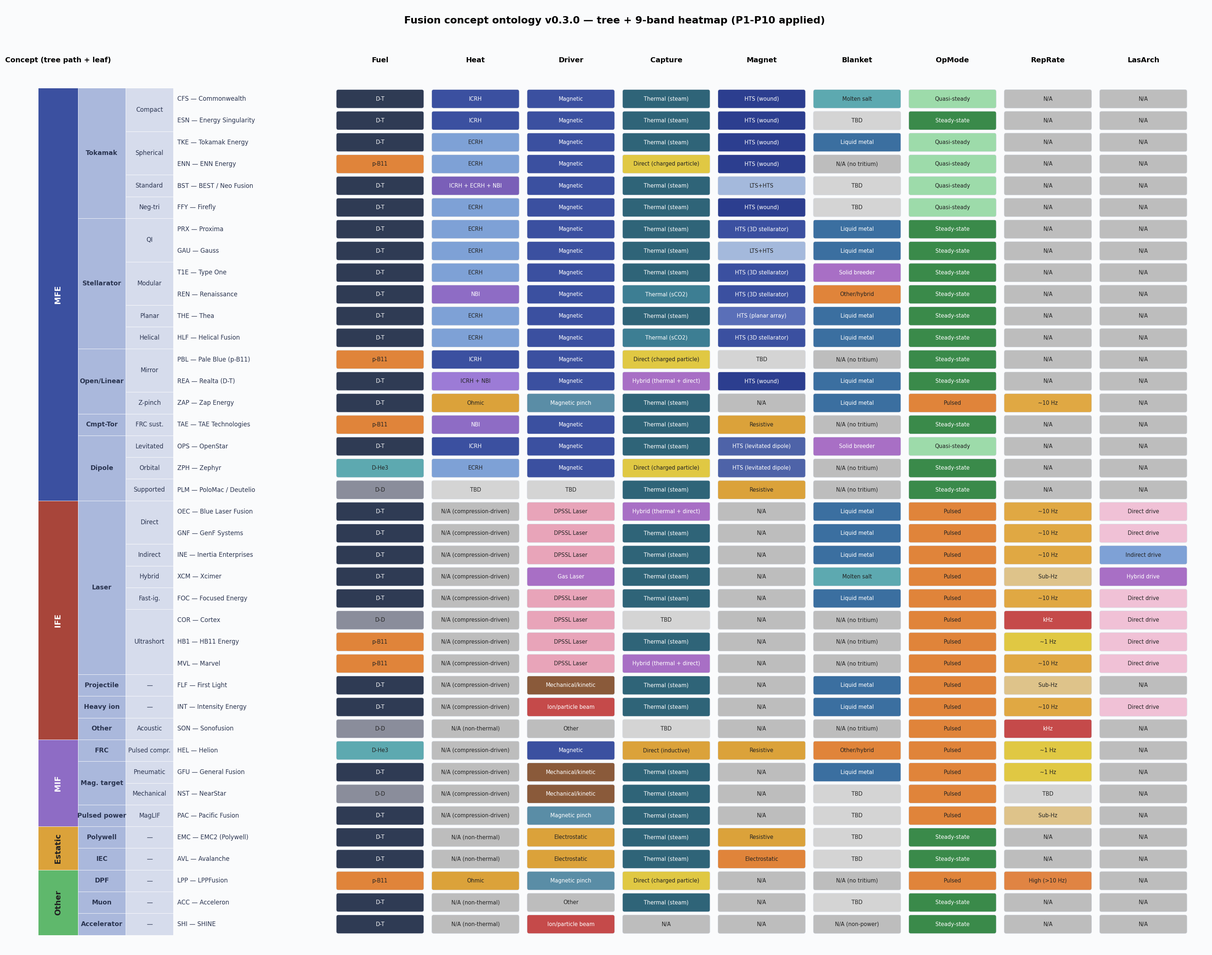
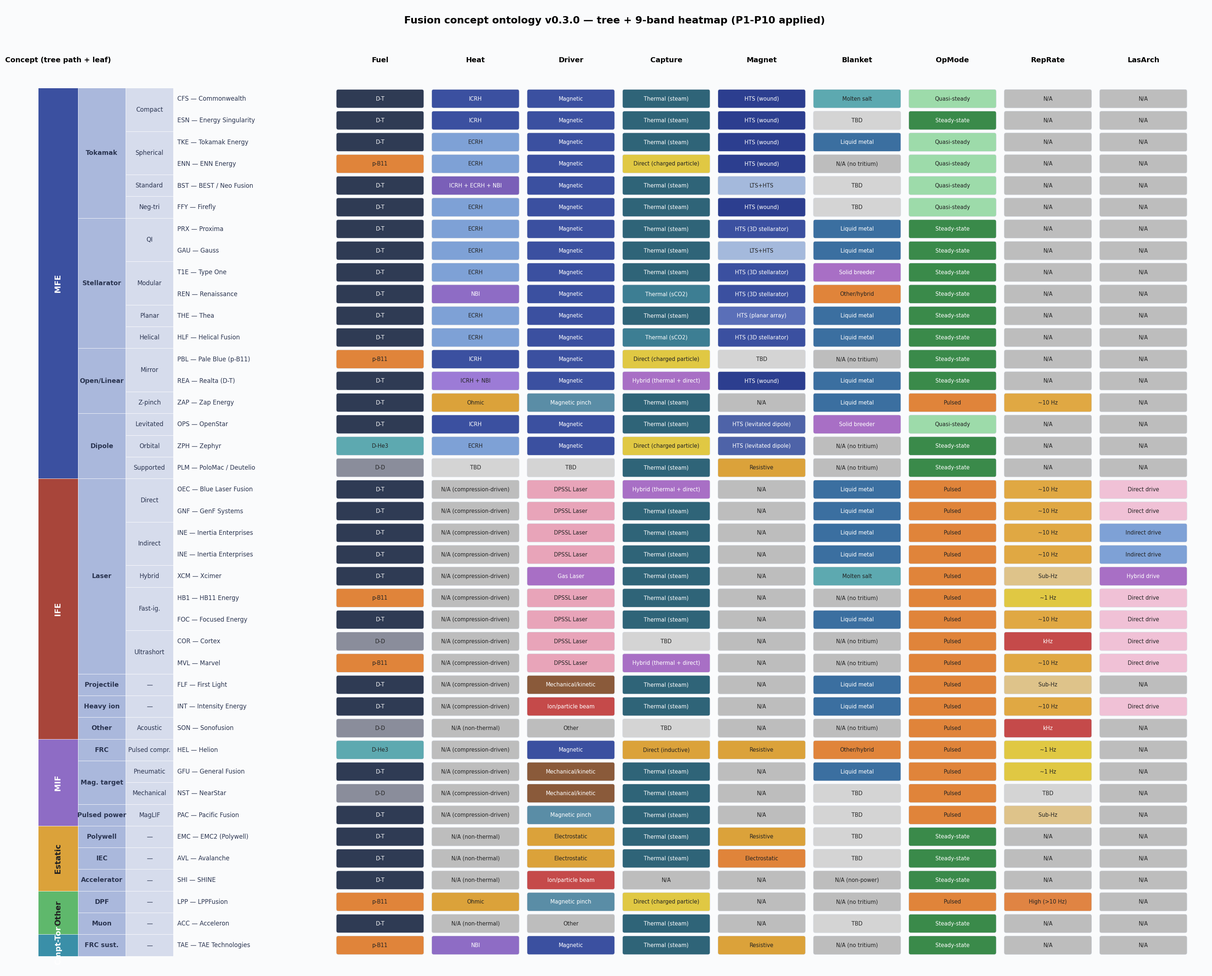
refactor(analysis): architecture-driven CADENCE + TREE_PATH (FR-8, FR-9, FR-14)
Replace oneoff_3d_clustering.py::CADENCE_BY_PREFIX (numeric-ID-prefix keys,
broken by renumbering) with cadence_by_architecture(cid, row) that reads
Confinement Family / MFE Topology / IFE Driver / MIF Method /
Non-Standard Mechanism / Tokamak Shape plus a small slug-override dict for
Z-pinch and orbital LD. Mirrors lib/scoring.py:detect_c2_category.

Audit FUNDING_M_USD (slug-keyed, stable across renumbering): add entries
for 37/38/39, comment the deferred Pranos drop.

Replace generate_ontology_chart.py::TREE_PATH dict with derive_tree_path(r)
using the same architecture-column pattern; add Cmpt-Tor color to
FAMILY_COLORS and harden text_color() against 3-digit hex / short strings
so the chart no longer crashes on previously-uncolored families.

I-7 regression check: feature values for the 36 retained concepts in
oneoff_3d_clustering.csv are byte-identical to /tmp/i7_baseline; only
KMeans cluster labels shift because three new concepts (37/38/39) join
the dataset.

diff --git a/exploration/concept_analysis/oneoff_3d_clustering.html b/exploration/concept_analysis/oneoff_3d_clustering.html
@@ -2,6 +2,6 @@
 <head><meta charset="utf-8" /></head>
 <body>
     <div>                        <script>window.PlotlyConfig = {MathJaxConfig: 'local'};</script>
-        <script charset="utf-8" src="https://cdn.plot.ly/plotly-3.5.0.min.js" integrity="sha256-fHbNLP+GlIXN+efbQec78UkemUz3NJp7UmfGxC1tNxs=" crossorigin="anonymous"></script>                <div id="0667480a-5ee3-42bb-b464-aff2d22b5fca" class="plotly-graph-div" style="height:750px; width:100%;"></div>            <script>                window.PLOTLYENV=window.PLOTLYENV || {};                                if (document.getElementById("0667480a-5ee3-42bb-b464-aff2d22b5fca")) {                    Plotly.newPlot(                        "0667480a-5ee3-42bb-b464-aff2d22b5fca",                        [{"hoverinfo":"skip","line":{"color":"rgba(120,120,120,0.35)","width":1},"mode":"lines","name":"drop-lines","showlegend":false,"x":[2.739,2.739,null,3.162,3.162,null,2.837,2.837,null,2.958,2.958,null,2.236,2.236,null,3.13,3.13,null,3.162,3.162,null,3.633,3.633,null,3.162,3.162,null,3.742,3.742,null,3.13,3.13,null,3.899,3.899,null,2.775,2.775,null,3.742,3.742,null,3.5,3.5,null,3.162,3.162,null,2.837,2.837,null,1.936,1.936,null,3.633,3.633,null,2.837,2.837,null,3.033,3.033,null,2.828,2.828,null,2.449,2.449,null,3.162,3.162,null,3.347,3.347,null,1.414,1.414,null,2.627,2.627,null,2.646,2.646,null,1.342,1.342,null,2.683,2.683,null,1.857,1.857,null,1.732,1.732,null,1.975,1.975,null,1.14,1.14,null,1.342,1.342,null,1.414,1.414,null],"y":[4.42,4.42,null,4.362,4.362,null,4.351,4.351,null,4.321,4.321,null,4.318,4.318,null,4.292,4.292,null,4.216,4.216,null,4.176,4.176,null,4.16,4.16,null,4.128,4.128,null,4.094,4.094,null,4.076,4.076,null,4.054,4.054,null,3.968,3.968,null,3.954,3.954,null,3.93,3.93,null,3.851,3.851,null,3.808,3.808,null,3.808,3.808,null,3.751,3.751,null,3.653,3.653,null,3.63,3.63,null,3.445,3.445,null,3.434,3.434,null,3.397,3.397,null,3.213,3.213,null,3.14,3.14,null,2.735,2.735,null,1.977,1.977,null,1.922,1.922,null,1.287,1.287,null,1.0,1.0,null,1.0,1.0,null,1.0,1.0,null,1.0,1.0,null,1.0,1.0,null],"z":[2.599,1,null,2.47,1,null,2.419,1,null,2.649,1,null,2.435,1,null,2.746,1,null,2.834,1,null,2.528,1,null,2.387,1,null,2.495,1,null,2.882,1,null,2.537,1,null,2.81,1,null,2.652,1,null,2.796,1,null,2.445,1,null,2.649,1,null,3.779,1,null,2.577,1,null,2.705,1,null,2.617,1,null,2.596,1,null,2.517,1,null,2.828,1,null,2.713,1,null,3.727,1,null,3.484,1,null,4.06,1,null,2.894,1,null,2.868,1,null,2.744,1,null,3.29,1,null,3.101,1,null,3.593,1,null,4.146,1,null,2.882,1,null],"type":"scatter3d"},{"hoverinfo":"skip","marker":{"color":"rgba(120,120,120,0.45)","size":4,"symbol":"circle"},"mode":"markers","name":"floor-shadows","showlegend":false,"x":[2.739,3.162,2.837,2.958,2.236,3.13,3.162,3.633,3.162,3.742,3.13,3.899,2.775,3.742,3.5,3.162,2.837,1.936,3.633,2.837,3.033,2.828,2.449,3.162,3.347,1.414,2.627,2.646,1.342,2.683,1.857,1.732,1.975,1.14,1.342,1.414],"y":[4.42,4.362,4.351,4.321,4.318,4.292,4.216,4.176,4.16,4.128,4.094,4.076,4.054,3.968,3.954,3.93,3.851,3.808,3.808,3.751,3.653,3.63,3.445,3.434,3.397,3.213,3.14,2.735,1.977,1.922,1.287,1.0,1.0,1.0,1.0,1.0],"z":[1,1,1,1,1,1,1,1,1,1,1,1,1,1,1,1,1,1,1,1,1,1,1,1,1,1,1,1,1,1,1,1,1,1,1,1],"type":"scatter3d"},{"customdata":[["29-negative-triangularity-tokamak","Firefly Fusion","D-T","MFE",3.0,4.0,3.3],["20a-type-one-stellarator","Type One Energy","D-T","MFE",2.8,4.0,3.5],["09-qi-stellarator-hts","Proxima Fusion","D-T","MFE",2.5,4.0,3.8],["05-planar-coil-stellarator","Thea Energy","D-T","MFE",3.5,4.0,3.5],["12-levitated-dipole","OpenStar Technologies","D-T","MFE",3.0,3.5,3.5],["10-large-scale-stellarator","Gauss Fusion","D-T","MFE",3.3,4.0,3.3],["20b-renaissance-stellarator","Renaissance Fusion","D-T","MFE",3.8,4.0,2.5],["36-helical-coil-stellarator","Helical Fusion","D-T","MFE",2.4,4.0,2.8]],"hovertemplate":"\u003cb\u003e%{customdata[0]}\u003c\u002fb\u003e\u003cbr\u003e%{customdata[1]} \u2014 %{customdata[2]} \u2014 %{customdata[3]}\u003cbr\u003e\u003cbr\u003eTech Maturity: %{x:.2f}\u003cbr\u003eTime to Market: %{y:.2f}\u003cbr\u003eLow-Cost Potential: %{z:.2f}\u003cbr\u003e\u003cbr\u003eC1=%{customdata[4]:.1f}  C7=%{customdata[5]:.1f}  C8=%{customdata[6]:.1f}\u003cextra\u003e\u003c\u002fextra\u003e","marker":{"color":"#1f77b4","line":{"color":"#222","width":0.5},"opacity":0.9,"size":7},"mode":"markers+text","name":"Cluster 0","text":["29","20a","09","05","12","10","20b","36"],"textfont":{"size":9},"textposition":"top center","x":[3.633,3.742,3.899,3.742,3.5,3.633,3.162,3.347],"y":[4.176,4.128,4.076,3.968,3.954,3.808,3.434,3.397],"z":[2.528,2.495,2.537,2.652,2.796,2.577,2.828,2.713],"type":"scatter3d"},{"customdata":[["03-laser-icf-liquid-jet-target","Cortex Fusion Systems","D-D","IFE",2.8,1.0,1.8],["16-muon-catalyzed-fusion","Acceleron Fusion","D-T","Non-Standard",2.8,4.0,1.8],["27-polywell","EMC2","D-T","Non-Standard",3.7,1.5,2.3],["02-acoustic-icf-sonofusion","Sonofusion Energy","D-D","IFE",3.6,1.5,2.0],["06-magnetic-mirror","Pale Blue Fusion","p-B11","MFE",1.3,3.0,1.3],["19-orbital-levitated-dipole","Zephyr Fusion","D-He3","MFE",3.0,1.0,1.3],["24-dense-plasma-focus","LPPFusion","p-B11","Non-Standard",5.0,1.0,1.8],["35-polomac-magnetic-confinement","Deutelio","D-D","MFE",2.0,1.0,2.0]],"hovertemplate":"\u003cb\u003e%{customdata[0]}\u003c\u002fb\u003e\u003cbr\u003e%{customdata[1]} \u2014 %{customdata[2]} \u2014 %{customdata[3]}\u003cbr\u003e\u003cbr\u003eTech Maturity: %{x:.2f}\u003cbr\u003eTime to Market: %{y:.2f}\u003cbr\u003eLow-Cost Potential: %{z:.2f}\u003cbr\u003e\u003cbr\u003eC1=%{customdata[4]:.1f}  C7=%{customdata[5]:.1f}  C8=%{customdata[6]:.1f}\u003cextra\u003e\u003c\u002fextra\u003e","marker":{"color":"#ff7f0e","line":{"color":"#222","width":0.5},"opacity":0.9,"size":7},"mode":"markers+text","name":"Cluster 1","text":["03","16","27","02","06","19","24","35"],"textfont":{"size":9},"textposition":"top center","x":[1.342,2.683,1.857,1.732,1.975,1.14,1.342,1.414],"y":[1.977,1.922,1.287,1.0,1.0,1.0,1.0,1.0],"z":[2.894,2.868,2.744,3.29,3.101,3.593,4.146,2.882],"type":"scatter3d"},{"customdata":[["15-sheared-flow-stabilized-z-pinch","Zap Energy","D-T","MFE",4.1,3.0,2.5],["01-hts-compact-tokamak","Commonwealth Fusion Systems","D-T","MFE",3.2,4.0,2.5],["22-projectile-icf","First Light Fusion, NearStar Fusion","D-T","IFE",2.4,3.5,2.3],["07-maglif","Pacific Fusion, Fuse Energy Technologies","D-T","MIF",3.7,3.5,2.5],["14-magnetized-target-fusion-pneumatic-compression","General Fusion","D-T","MIF",2.8,2.0,2.5],["17a-laser-icf-hybrid-drive","Xcimer Energy","D-T","IFE",4.1,3.5,2.8],["26-laser-icf-indirect-drive","Inertia Enterprises","D-T","IFE",3.2,4.0,2.5],["21-spherical-tokamak-hts","Tokamak Energy","D-T","MFE",2.0,4.0,2.5],["31-laser-icf-oec-architecture","Blue Laser Fusion (BLF)","D-T","IFE",4.5,3.5,2.8],["30-laser-icf-nif-commercialization","Inertia Enterprises","D-T","IFE",4.6,3.5,2.2],["33-state-backed-tokamak-best","Neo Fusion","D-T","MFE",2.1,4.0,2.5],["17b-laser-icf-fast-ignition","Focused Energy","D-T","IFE",3.7,3.5,2.3],["32-laser-icf-french-national","GenF Systems","D-T","IFE",3.8,3.5,2.3],["34-compact-spherical-tokamak-india","Pranos Fusion","D-T","MFE",3.3,4.0,2.3],["28-hts-tokamak-full-hts","Energy Singularity","D-T","MFE",2.8,4.0,2.0],["25-heavy-ion-beam-icf","Intensity Energy","D-T","IFE",3.0,2.0,3.0]],"hovertemplate":"\u003cb\u003e%{customdata[0]}\u003c\u002fb\u003e\u003cbr\u003e%{customdata[1]} \u2014 %{customdata[2]} \u2014 %{customdata[3]}\u003cbr\u003e\u003cbr\u003eTech Maturity: %{x:.2f}\u003cbr\u003eTime to Market: %{y:.2f}\u003cbr\u003eLow-Cost Potential: %{z:.2f}\u003cbr\u003e\u003cbr\u003eC1=%{customdata[4]:.1f}  C7=%{customdata[5]:.1f}  C8=%{customdata[6]:.1f}\u003cextra\u003e\u003c\u002fextra\u003e","marker":{"color":"#2ca02c","line":{"color":"#222","width":0.5},"opacity":0.9,"size":7},"mode":"markers+text","name":"Cluster 2","text":["15","01","22","07","14","17a","26","21","31","30","33","17b","32","34","28","25"],"textfont":{"size":9},"textposition":"top center","x":[2.739,3.162,2.837,2.958,2.236,3.13,3.162,3.162,3.13,2.775,3.162,2.837,2.837,3.033,2.828,2.449],"y":[4.42,4.362,4.351,4.321,4.318,4.292,4.216,4.16,4.094,4.054,3.93,3.851,3.751,3.653,3.63,3.445],"z":[2.599,2.47,2.419,2.649,2.435,2.746,2.834,2.387,2.882,2.81,2.445,2.649,2.705,2.617,2.596,2.517],"type":"scatter3d"},{"customdata":[["08-frc-w-direct-conversion","Helion Energy","D-He3","MIF",5.0,1.5,2.5],["18-p-b11-frc","TAE Technologies","p-B11","MFE",3.0,1.0,2.0],["13-electrostatic-hybrid","Avalanche Energy","D-T","Non-Standard",5.0,3.0,2.3],["23-laser-icf-nanostructured-target","Marvel Fusion","p-B11","IFE",5.0,3.5,2.0]],"hovertemplate":"\u003cb\u003e%{customdata[0]}\u003c\u002fb\u003e\u003cbr\u003e%{customdata[1]} \u2014 %{customdata[2]} \u2014 %{customdata[3]}\u003cbr\u003e\u003cbr\u003eTech Maturity: %{x:.2f}\u003cbr\u003eTime to Market: %{y:.2f}\u003cbr\u003eLow-Cost Potential: %{z:.2f}\u003cbr\u003e\u003cbr\u003eC1=%{customdata[4]:.1f}  C7=%{customdata[5]:.1f}  C8=%{customdata[6]:.1f}\u003cextra\u003e\u003c\u002fextra\u003e","marker":{"color":"#d62728","line":{"color":"#222","width":0.5},"opacity":0.9,"size":7},"mode":"markers+text","name":"Cluster 3","text":["08","18","13","23"],"textfont":{"size":9},"textposition":"top center","x":[1.936,1.414,2.627,2.646],"y":[3.808,3.213,3.14,2.735],"z":[3.779,3.727,3.484,4.06],"type":"scatter3d"}],                        {"template":{"data":{"histogram2dcontour":[{"type":"histogram2dcontour","colorbar":{"outlinewidth":0,"ticks":""},"colorscale":[[0.0,"#0d0887"],[0.1111111111111111,"#46039f"],[0.2222222222222222,"#7201a8"],[0.3333333333333333,"#9c179e"],[0.4444444444444444,"#bd3786"],[0.5555555555555556,"#d8576b"],[0.6666666666666666,"#ed7953"],[0.7777777777777778,"#fb9f3a"],[0.8888888888888888,"#fdca26"],[1.0,"#f0f921"]]}],"choropleth":[{"type":"choropleth","colorbar":{"outlinewidth":0,"ticks":""}}],"histogram2d":[{"type":"histogram2d","colorbar":{"outlinewidth":0,"ticks":""},"colorscale":[[0.0,"#0d0887"],[0.1111111111111111,"#46039f"],[0.2222222222222222,"#7201a8"],[0.3333333333333333,"#9c179e"],[0.4444444444444444,"#bd3786"],[0.5555555555555556,"#d8576b"],[0.6666666666666666,"#ed7953"],[0.7777777777777778,"#fb9f3a"],[0.8888888888888888,"#fdca26"],[1.0,"#f0f921"]]}],"heatmap":[{"type":"heatmap","colorbar":{"outlinewidth":0,"ticks":""},"colorscale":[[0.0,"#0d0887"],[0.1111111111111111,"#46039f"],[0.2222222222222222,"#7201a8"],[0.3333333333333333,"#9c179e"],[0.4444444444444444,"#bd3786"],[0.5555555555555556,"#d8576b"],[0.6666666666666666,"#ed7953"],[0.7777777777777778,"#fb9f3a"],[0.8888888888888888,"#fdca26"],[1.0,"#f0f921"]]}],"contourcarpet":[{"type":"contourcarpet","colorbar":{"outlinewidth":0,"ticks":""}}],"contour":[{"type":"contour","colorbar":{"outlinewidth":0,"ticks":""},"colorscale":[[0.0,"#0d0887"],[0.1111111111111111,"#46039f"],[0.2222222222222222,"#7201a8"],[0.3333333333333333,"#9c179e"],[0.4444444444444444,"#bd3786"],[0.5555555555555556,"#d8576b"],[0.6666666666666666,"#ed7953"],[0.7777777777777778,"#fb9f3a"],[0.8888888888888888,"#fdca26"],[1.0,"#f0f921"]]}],"surface":[{"type":"surface","colorbar":{"outlinewidth":0,"ticks":""},"colorscale":[[0.0,"#0d0887"],[0.1111111111111111,"#46039f"],[0.2222222222222222,"#7201a8"],[0.3333333333333333,"#9c179e"],[0.4444444444444444,"#bd3786"],[0.5555555555555556,"#d8576b"],[0.6666666666666666,"#ed7953"],[0.7777777777777778,"#fb9f3a"],[0.8888888888888888,"#fdca26"],[1.0,"#f0f921"]]}],"mesh3d":[{"type":"mesh3d","colorbar":{"outlinewidth":0,"ticks":""}}],"scatter":[{"fillpattern":{"fillmode":"overlay","size":10,"solidity":0.2},"type":"scatter"}],"parcoords":[{"type":"parcoords","line":{"colorbar":{"outlinewidth":0,"ticks":""}}}],"scatterpolargl":[{"type":"scatterpolargl","marker":{"colorbar":{"outlinewidth":0,"ticks":""}}}],"bar":[{"error_x":{"color":"#2a3f5f"},"error_y":{"color":"#2a3f5f"},"marker":{"line":{"color":"#E5ECF6","width":0.5},"pattern":{"fillmode":"overlay","size":10,"solidity":0.2}},"type":"bar"}],"scattergeo":[{"type":"scattergeo","marker":{"colorbar":{"outlinewidth":0,"ticks":""}}}],"scatterpolar":[{"type":"scatterpolar","marker":{"colorbar":{"outlinewidth":0,"ticks":""}}}],"histogram":[{"marker":{"pattern":{"fillmode":"overlay","size":10,"solidity":0.2}},"type":"histogram"}],"scattergl":[{"type":"scattergl","marker":{"colorbar":{"outlinewidth":0,"ticks":""}}}],"scatter3d":[{"type":"scatter3d","line":{"colorbar":{"outlinewidth":0,"ticks":""}},"marker":{"colorbar":{"outlinewidth":0,"ticks":""}}}],"scattermap":[{"type":"scattermap","marker":{"colorbar":{"outlinewidth":0,"ticks":""}}}],"scattermapbox":[{"type":"scattermapbox","marker":{"colorbar":{"outlinewidth":0,"ticks":""}}}],"scatterternary":[{"type":"scatterternary","marker":{"colorbar":{"outlinewidth":0,"ticks":""}}}],"scattercarpet":[{"type":"scattercarpet","marker":{"colorbar":{"outlinewidth":0,"ticks":""}}}],"carpet":[{"aaxis":{"endlinecolor":"#2a3f5f","gridcolor":"white","linecolor":"white","minorgridcolor":"white","startlinecolor":"#2a3f5f"},"baxis":{"endlinecolor":"#2a3f5f","gridcolor":"white","linecolor":"white","minorgridcolor":"white","startlinecolor":"#2a3f5f"},"type":"carpet"}],"table":[{"cells":{"fill":{"color":"#EBF0F8"},"line":{"color":"white"}},"header":{"fill":{"color":"#C8D4E3"},"line":{"color":"white"}},"type":"table"}],"barpolar":[{"marker":{"line":{"color":"#E5ECF6","width":0.5},"pattern":{"fillmode":"overlay","size":10,"solidity":0.2}},"type":"barpolar"}],"pie":[{"automargin":true,"type":"pie"}]},"layout":{"autotypenumbers":"strict","colorway":["#636efa","#EF553B","#00cc96","#ab63fa","#FFA15A","#19d3f3","#FF6692","#B6E880","#FF97FF","#FECB52"],"font":{"color":"#2a3f5f"},"hovermode":"closest","hoverlabel":{"align":"left"},"paper_bgcolor":"white","plot_bgcolor":"#E5ECF6","polar":{"bgcolor":"#E5ECF6","angularaxis":{"gridcolor":"white","linecolor":"white","ticks":""},"radialaxis":{"gridcolor":"white","linecolor":"white","ticks":""}},"ternary":{"bgcolor":"#E5ECF6","aaxis":{"gridcolor":"white","linecolor":"white","ticks":""},"baxis":{"gridcolor":"white","linecolor":"white","ticks":""},"caxis":{"gridcolor":"white","linecolor":"white","ticks":""}},"coloraxis":{"colorbar":{"outlinewidth":0,"ticks":""}},"colorscale":{"sequential":[[0.0,"#0d0887"],[0.1111111111111111,"#46039f"],[0.2222222222222222,"#7201a8"],[0.3333333333333333,"#9c179e"],[0.4444444444444444,"#bd3786"],[0.5555555555555556,"#d8576b"],[0.6666666666666666,"#ed7953"],[0.7777777777777778,"#fb9f3a"],[0.8888888888888888,"#fdca26"],[1.0,"#f0f921"]],"sequentialminus":[[0.0,"#0d0887"],[0.1111111111111111,"#46039f"],[0.2222222222222222,"#7201a8"],[0.3333333333333333,"#9c179e"],[0.4444444444444444,"#bd3786"],[0.5555555555555556,"#d8576b"],[0.6666666666666666,"#ed7953"],[0.7777777777777778,"#fb9f3a"],[0.8888888888888888,"#fdca26"],[1.0,"#f0f921"]],"diverging":[[0,"#8e0152"],[0.1,"#c51b7d"],[0.2,"#de77ae"],[0.3,"#f1b6da"],[0.4,"#fde0ef"],[0.5,"#f7f7f7"],[0.6,"#e6f5d0"],[0.7,"#b8e186"],[0.8,"#7fbc41"],[0.9,"#4d9221"],[1,"#276419"]]},"xaxis":{"gridcolor":"white","linecolor":"white","ticks":"","title":{"standoff":15},"zerolinecolor":"white","automargin":true,"zerolinewidth":2},"yaxis":{"gridcolor":"white","linecolor":"white","ticks":"","title":{"standoff":15},"zerolinecolor":"white","automargin":true,"zerolinewidth":2},"scene":{"xaxis":{"backgroundcolor":"#E5ECF6","gridcolor":"white","linecolor":"white","showbackground":true,"ticks":"","zerolinecolor":"white","gridwidth":2},"yaxis":{"backgroundcolor":"#E5ECF6","gridcolor":"white","linecolor":"white","showbackground":true,"ticks":"","zerolinecolor":"white","gridwidth":2},"zaxis":{"backgroundcolor":"#E5ECF6","gridcolor":"white","linecolor":"white","showbackground":true,"ticks":"","zerolinecolor":"white","gridwidth":2}},"shapedefaults":{"line":{"color":"#2a3f5f"}},"annotationdefaults":{"arrowcolor":"#2a3f5f","arrowhead":0,"arrowwidth":1},"geo":{"bgcolor":"white","landcolor":"#E5ECF6","subunitcolor":"white","showland":true,"showlakes":true,"lakecolor":"white"},"title":{"x":0.05},"mapbox":{"style":"light"}}},"scene":{"xaxis":{"title":{"text":"Tech Maturity (5 = most mature)"},"range":[1,5],"dtick":1},"yaxis":{"title":{"text":"Time to Market (5 = soonest)"},"range":[1,5],"dtick":1},"zaxis":{"title":{"text":"Low-Cost Potential (5 = lowest cost)"},"range":[1,5],"dtick":1},"camera":{"eye":{"x":1.6,"y":1.6,"z":1.0}}},"legend":{"x":0.85,"y":0.95},"margin":{"l":0,"r":0,"t":60,"b":80},"title":{"text":"Fusion Concepts \u2014 3D Clustering"},"annotations":[{"font":{"color":"#555","size":12},"showarrow":false,"text":"All axes on 1-5 scale (5 = best, 1 = worst). Drag to rotate. Gray drop-lines & floor shadows show the (Tech Maturity, Time to Market) projection.","x":0.5,"xanchor":"center","xref":"paper","y":-0.06,"yanchor":"top","yref":"paper"}],"height":750},                        {"responsive": true}                    )                };            </script>        </div>
+        <script charset="utf-8" src="https://cdn.plot.ly/plotly-3.5.0.min.js" integrity="sha256-fHbNLP+GlIXN+efbQec78UkemUz3NJp7UmfGxC1tNxs=" crossorigin="anonymous"></script>                <div id="fe847ce4-1dd3-4aa1-99a1-c0cb3abe823d" class="plotly-graph-div" style="height:750px; width:100%;"></div>            <script>                window.PLOTLYENV=window.PLOTLYENV || {};                                if (document.getElementById("fe847ce4-1dd3-4aa1-99a1-c0cb3abe823d")) {                    Plotly.newPlot(                        "fe847ce4-1dd3-4aa1-99a1-c0cb3abe823d",                        [{"hoverinfo":"skip","line":{"color":"rgba(120,120,120,0.35)","width":1},"mode":"lines","name":"drop-lines","showlegend":false,"x":[2.739,2.739,null,3.162,3.162,null,2.837,2.837,null,2.958,2.958,null,2.236,2.236,null,3.13,3.13,null,3.162,3.162,null,3.633,3.633,null,3.162,3.162,null,3.742,3.742,null,3.13,3.13,null,3.899,3.899,null,2.775,2.775,null,3.742,3.742,null,3.5,3.5,null,3.162,3.162,null,2.837,2.837,null,1.936,1.936,null,3.633,3.633,null,2.837,2.837,null,2.828,2.828,null,2.449,2.449,null,3.162,3.162,null,3.347,3.347,null,1.414,1.414,null,2.627,2.627,null,2.646,2.646,null,3.033,3.033,null,1.342,1.342,null,2.683,2.683,null,1.857,1.857,null,1.414,1.414,null,1.732,1.732,null,1.975,1.975,null,1.14,1.14,null,1.342,1.342,null],"y":[4.42,4.42,null,4.362,4.362,null,4.351,4.351,null,4.321,4.321,null,4.318,4.318,null,4.292,4.292,null,4.216,4.216,null,4.176,4.176,null,4.16,4.16,null,4.128,4.128,null,4.094,4.094,null,4.076,4.076,null,4.054,4.054,null,3.968,3.968,null,3.954,3.954,null,3.93,3.93,null,3.851,3.851,null,3.808,3.808,null,3.808,3.808,null,3.751,3.751,null,3.63,3.63,null,3.445,3.445,null,3.434,3.434,null,3.397,3.397,null,3.213,3.213,null,3.14,3.14,null,2.735,2.735,null,2.026,2.026,null,1.977,1.977,null,1.922,1.922,null,1.287,1.287,null,1.287,1.287,null,1.0,1.0,null,1.0,1.0,null,1.0,1.0,null,1.0,1.0,null],"z":[2.599,1,null,2.47,1,null,2.419,1,null,2.649,1,null,2.435,1,null,2.746,1,null,2.834,1,null,2.528,1,null,2.387,1,null,2.495,1,null,2.882,1,null,2.537,1,null,2.81,1,null,2.652,1,null,2.796,1,null,2.445,1,null,2.649,1,null,3.779,1,null,2.577,1,null,2.705,1,null,2.596,1,null,2.517,1,null,2.828,1,null,2.713,1,null,3.727,1,null,3.484,1,null,4.06,1,null,2.617,1,null,2.894,1,null,2.868,1,null,2.744,1,null,2.882,1,null,3.29,1,null,3.101,1,null,3.593,1,null,4.146,1,null],"type":"scatter3d"},{"hoverinfo":"skip","marker":{"color":"rgba(120,120,120,0.45)","size":4,"symbol":"circle"},"mode":"markers","name":"floor-shadows","showlegend":false,"x":[2.739,3.162,2.837,2.958,2.236,3.13,3.162,3.633,3.162,3.742,3.13,3.899,2.775,3.742,3.5,3.162,2.837,1.936,3.633,2.837,2.828,2.449,3.162,3.347,1.414,2.627,2.646,3.033,1.342,2.683,1.857,1.414,1.732,1.975,1.14,1.342],"y":[4.42,4.362,4.351,4.321,4.318,4.292,4.216,4.176,4.16,4.128,4.094,4.076,4.054,3.968,3.954,3.93,3.851,3.808,3.808,3.751,3.63,3.445,3.434,3.397,3.213,3.14,2.735,2.026,1.977,1.922,1.287,1.287,1.0,1.0,1.0,1.0],"z":[1,1,1,1,1,1,1,1,1,1,1,1,1,1,1,1,1,1,1,1,1,1,1,1,1,1,1,1,1,1,1,1,1,1,1,1],"type":"scatter3d"},{"customdata":[["03-laser-icf-liquid-jet-target","Cortex Fusion","D-D","IFE",2.8,1.0,1.8],["27-polywell","EMC2","D-T","Non-Standard",3.7,1.5,2.3],["35-polomac-magnetic-confinement","Deutelio","D-D","MFE",2.0,1.0,2.0],["02-acoustic-icf-sonofusion","Sonofusion Energy","D-D","IFE",3.6,1.5,2.0],["06-magnetic-mirror","Pale Blue","p-B11","MFE",1.3,3.0,1.3],["19-orbital-levitated-dipole","Zephyr Fusion","D-He3","MFE",3.0,1.0,1.3],["24-dense-plasma-focus","LPPFusion","p-B11","Non-Standard",5.0,1.0,1.8]],"hovertemplate":"\u003cb\u003e%{customdata[0]}\u003c\u002fb\u003e\u003cbr\u003e%{customdata[1]} \u2014 %{customdata[2]} \u2014 %{customdata[3]}\u003cbr\u003e\u003cbr\u003eTech Maturity: %{x:.2f}\u003cbr\u003eTime to Market: %{y:.2f}\u003cbr\u003eLow-Cost Potential: %{z:.2f}\u003cbr\u003e\u003cbr\u003eC1=%{customdata[4]:.1f}  C7=%{customdata[5]:.1f}  C8=%{customdata[6]:.1f}\u003cextra\u003e\u003c\u002fextra\u003e","marker":{"color":"#1f77b4","line":{"color":"#222","width":0.5},"opacity":0.9,"size":7},"mode":"markers+text","name":"Cluster 0","text":["03","27","35","02","06","19","24"],"textfont":{"size":9},"textposition":"top center","x":[1.342,1.857,1.414,1.732,1.975,1.14,1.342],"y":[1.977,1.287,1.287,1.0,1.0,1.0,1.0],"z":[2.894,2.744,2.882,3.29,3.101,3.593,4.146],"type":"scatter3d"},{"customdata":[["15-sheared-flow-stabilized-z-pinch","Zap Energy","D-T","MFE",4.1,3.0,2.5],["01-hts-compact-tokamak","Commonwealth Fusion Systems","D-T","MFE",3.2,4.0,2.5],["22-projectile-icf","First Light Fusion","D-T","IFE",2.4,3.5,2.3],["07-maglif","Pacific Fusion","D-T","MIF",3.7,3.5,2.5],["14-magnetized-target-fusion-pneumatic-compression","General Fusion","D-T","MIF",2.8,2.0,2.5],["17a-laser-icf-hybrid-drive","Xcimer Energy","D-T","IFE",4.1,3.5,2.8],["26-laser-icf-indirect-drive","Inertia Enterprises","D-T","IFE",3.2,4.0,2.5],["29-negative-triangularity-tokamak","Firefly Fusion","D-T","MFE",3.0,4.0,3.3],["21-spherical-tokamak-hts","Tokamak Energy","D-T","MFE",2.0,4.0,2.5],["20a-type-one-stellarator","Type One Energy","D-T","MFE",2.8,4.0,3.5],["31-laser-icf-oec-architecture","Blue Laser Fusion","D-T","IFE",4.5,3.5,2.8],["09-qi-stellarator-hts","Proxima Fusion","D-T","MFE",2.5,4.0,3.8],["30-laser-icf-nif-commercialization","Inertia Enterprises","D-T","IFE",4.6,3.5,2.2],["05-planar-coil-stellarator","Thea Energy","D-T","MFE",3.5,4.0,3.5],["12-levitated-dipole","OpenStar Technologies","D-T","MFE",3.0,3.5,3.5],["33-state-backed-tokamak-best","Neo Fusion","D-T","MFE",2.1,4.0,2.5],["17b-laser-icf-fast-ignition","Focused Energy","D-T","IFE",3.7,3.5,2.3],["10-large-scale-stellarator","Gauss Fusion","D-T","MFE",3.3,4.0,3.3],["32-laser-icf-french-national","GenF Systems","D-T","IFE",3.8,3.5,2.3],["28-hts-tokamak-full-hts","Energy Singularity","D-T","MFE",2.8,4.0,2.0],["25-heavy-ion-beam-icf","Intensity Energy","D-T","IFE",3.0,2.0,3.0],["20b-renaissance-stellarator","Renaissance Fusion","D-T","MFE",3.8,4.0,2.5],["36-helical-coil-stellarator","Helical Fusion","D-T","MFE",2.4,4.0,2.8]],"hovertemplate":"\u003cb\u003e%{customdata[0]}\u003c\u002fb\u003e\u003cbr\u003e%{customdata[1]} \u2014 %{customdata[2]} \u2014 %{customdata[3]}\u003cbr\u003e\u003cbr\u003eTech Maturity: %{x:.2f}\u003cbr\u003eTime to Market: %{y:.2f}\u003cbr\u003eLow-Cost Potential: %{z:.2f}\u003cbr\u003e\u003cbr\u003eC1=%{customdata[4]:.1f}  C7=%{customdata[5]:.1f}  C8=%{customdata[6]:.1f}\u003cextra\u003e\u003c\u002fextra\u003e","marker":{"color":"#ff7f0e","line":{"color":"#222","width":0.5},"opacity":0.9,"size":7},"mode":"markers+text","name":"Cluster 1","text":["15","01","22","07","14","17a","26","29","21","20a","31","09","30","05","12","33","17b","10","32","28","25","20b","36"],"textfont":{"size":9},"textposition":"top center","x":[2.739,3.162,2.837,2.958,2.236,3.13,3.162,3.633,3.162,3.742,3.13,3.899,2.775,3.742,3.5,3.162,2.837,3.633,2.837,2.828,2.449,3.162,3.347],"y":[4.42,4.362,4.351,4.321,4.318,4.292,4.216,4.176,4.16,4.128,4.094,4.076,4.054,3.968,3.954,3.93,3.851,3.808,3.751,3.63,3.445,3.434,3.397],"z":[2.599,2.47,2.419,2.649,2.435,2.746,2.834,2.528,2.387,2.495,2.882,2.537,2.81,2.652,2.796,2.445,2.649,2.577,2.705,2.596,2.517,2.828,2.713],"type":"scatter3d"},{"customdata":[["08-frc-w-direct-conversion","Helion Energy","D-He3","MIF",5.0,1.5,2.5],["18-p-b11-frc","TAE Technologies","p-B11","MFE",3.0,1.0,2.0],["13-electrostatic-hybrid","Avalanche Energy","D-T","Non-Standard",5.0,3.0,2.3],["23-laser-icf-nanostructured-target","Marvel Fusion","p-B11","IFE",5.0,3.5,2.0]],"hovertemplate":"\u003cb\u003e%{customdata[0]}\u003c\u002fb\u003e\u003cbr\u003e%{customdata[1]} \u2014 %{customdata[2]} \u2014 %{customdata[3]}\u003cbr\u003e\u003cbr\u003eTech Maturity: %{x:.2f}\u003cbr\u003eTime to Market: %{y:.2f}\u003cbr\u003eLow-Cost Potential: %{z:.2f}\u003cbr\u003e\u003cbr\u003eC1=%{customdata[4]:.1f}  C7=%{customdata[5]:.1f}  C8=%{customdata[6]:.1f}\u003cextra\u003e\u003c\u002fextra\u003e","marker":{"color":"#2ca02c","line":{"color":"#222","width":0.5},"opacity":0.9,"size":7},"mode":"markers+text","name":"Cluster 2","text":["08","18","13","23"],"textfont":{"size":9},"textposition":"top center","x":[1.936,1.414,2.627,2.646],"y":[3.808,3.213,3.14,2.735],"z":[3.779,3.727,3.484,4.06],"type":"scatter3d"},{"customdata":[["34-compact-spherical-tokamak-india","","","",3.3,4.0,2.3],["16-muon-catalyzed-fusion","Acceleron Fusion","D-T","Non-Standard",2.8,4.0,1.8]],"hovertemplate":"\u003cb\u003e%{customdata[0]}\u003c\u002fb\u003e\u003cbr\u003e%{customdata[1]} \u2014 %{customdata[2]} \u2014 %{customdata[3]}\u003cbr\u003e\u003cbr\u003eTech Maturity: %{x:.2f}\u003cbr\u003eTime to Market: %{y:.2f}\u003cbr\u003eLow-Cost Potential: %{z:.2f}\u003cbr\u003e\u003cbr\u003eC1=%{customdata[4]:.1f}  C7=%{customdata[5]:.1f}  C8=%{customdata[6]:.1f}\u003cextra\u003e\u003c\u002fextra\u003e","marker":{"color":"#d62728","line":{"color":"#222","width":0.5},"opacity":0.9,"size":7},"mode":"markers+text","name":"Cluster 3","text":["34","16"],"textfont":{"size":9},"textposition":"top center","x":[3.033,2.683],"y":[2.026,1.922],"z":[2.617,2.868],"type":"scatter3d"}],                        {"template":{"data":{"histogram2dcontour":[{"type":"histogram2dcontour","colorbar":{"outlinewidth":0,"ticks":""},"colorscale":[[0.0,"#0d0887"],[0.1111111111111111,"#46039f"],[0.2222222222222222,"#7201a8"],[0.3333333333333333,"#9c179e"],[0.4444444444444444,"#bd3786"],[0.5555555555555556,"#d8576b"],[0.6666666666666666,"#ed7953"],[0.7777777777777778,"#fb9f3a"],[0.8888888888888888,"#fdca26"],[1.0,"#f0f921"]]}],"choropleth":[{"type":"choropleth","colorbar":{"outlinewidth":0,"ticks":""}}],"histogram2d":[{"type":"histogram2d","colorbar":{"outlinewidth":0,"ticks":""},"colorscale":[[0.0,"#0d0887"],[0.1111111111111111,"#46039f"],[0.2222222222222222,"#7201a8"],[0.3333333333333333,"#9c179e"],[0.4444444444444444,"#bd3786"],[0.5555555555555556,"#d8576b"],[0.6666666666666666,"#ed7953"],[0.7777777777777778,"#fb9f3a"],[0.8888888888888888,"#fdca26"],[1.0,"#f0f921"]]}],"heatmap":[{"type":"heatmap","colorbar":{"outlinewidth":0,"ticks":""},"colorscale":[[0.0,"#0d0887"],[0.1111111111111111,"#46039f"],[0.2222222222222222,"#7201a8"],[0.3333333333333333,"#9c179e"],[0.4444444444444444,"#bd3786"],[0.5555555555555556,"#d8576b"],[0.6666666666666666,"#ed7953"],[0.7777777777777778,"#fb9f3a"],[0.8888888888888888,"#fdca26"],[1.0,"#f0f921"]]}],"contourcarpet":[{"type":"contourcarpet","colorbar":{"outlinewidth":0,"ticks":""}}],"contour":[{"type":"contour","colorbar":{"outlinewidth":0,"ticks":""},"colorscale":[[0.0,"#0d0887"],[0.1111111111111111,"#46039f"],[0.2222222222222222,"#7201a8"],[0.3333333333333333,"#9c179e"],[0.4444444444444444,"#bd3786"],[0.5555555555555556,"#d8576b"],[0.6666666666666666,"#ed7953"],[0.7777777777777778,"#fb9f3a"],[0.8888888888888888,"#fdca26"],[1.0,"#f0f921"]]}],"surface":[{"type":"surface","colorbar":{"outlinewidth":0,"ticks":""},"colorscale":[[0.0,"#0d0887"],[0.1111111111111111,"#46039f"],[0.2222222222222222,"#7201a8"],[0.3333333333333333,"#9c179e"],[0.4444444444444444,"#bd3786"],[0.5555555555555556,"#d8576b"],[0.6666666666666666,"#ed7953"],[0.7777777777777778,"#fb9f3a"],[0.8888888888888888,"#fdca26"],[1.0,"#f0f921"]]}],"mesh3d":[{"type":"mesh3d","colorbar":{"outlinewidth":0,"ticks":""}}],"scatter":[{"fillpattern":{"fillmode":"overlay","size":10,"solidity":0.2},"type":"scatter"}],"parcoords":[{"type":"parcoords","line":{"colorbar":{"outlinewidth":0,"ticks":""}}}],"scatterpolargl":[{"type":"scatterpolargl","marker":{"colorbar":{"outlinewidth":0,"ticks":""}}}],"bar":[{"error_x":{"color":"#2a3f5f"},"error_y":{"color":"#2a3f5f"},"marker":{"line":{"color":"#E5ECF6","width":0.5},"pattern":{"fillmode":"overlay","size":10,"solidity":0.2}},"type":"bar"}],"scattergeo":[{"type":"scattergeo","marker":{"colorbar":{"outlinewidth":0,"ticks":""}}}],"scatterpolar":[{"type":"scatterpolar","marker":{"colorbar":{"outlinewidth":0,"ticks":""}}}],"histogram":[{"marker":{"pattern":{"fillmode":"overlay","size":10,"solidity":0.2}},"type":"histogram"}],"scattergl":[{"type":"scattergl","marker":{"colorbar":{"outlinewidth":0,"ticks":""}}}],"scatter3d":[{"type":"scatter3d","line":{"colorbar":{"outlinewidth":0,"ticks":""}},"marker":{"colorbar":{"outlinewidth":0,"ticks":""}}}],"scattermap":[{"type":"scattermap","marker":{"colorbar":{"outlinewidth":0,"ticks":""}}}],"scattermapbox":[{"type":"scattermapbox","marker":{"colorbar":{"outlinewidth":0,"ticks":""}}}],"scatterternary":[{"type":"scatterternary","marker":{"colorbar":{"outlinewidth":0,"ticks":""}}}],"scattercarpet":[{"type":"scattercarpet","marker":{"colorbar":{"outlinewidth":0,"ticks":""}}}],"carpet":[{"aaxis":{"endlinecolor":"#2a3f5f","gridcolor":"white","linecolor":"white","minorgridcolor":"white","startlinecolor":"#2a3f5f"},"baxis":{"endlinecolor":"#2a3f5f","gridcolor":"white","linecolor":"white","minorgridcolor":"white","startlinecolor":"#2a3f5f"},"type":"carpet"}],"table":[{"cells":{"fill":{"color":"#EBF0F8"},"line":{"color":"white"}},"header":{"fill":{"color":"#C8D4E3"},"line":{"color":"white"}},"type":"table"}],"barpolar":[{"marker":{"line":{"color":"#E5ECF6","width":0.5},"pattern":{"fillmode":"overlay","size":10,"solidity":0.2}},"type":"barpolar"}],"pie":[{"automargin":true,"type":"pie"}]},"layout":{"autotypenumbers":"strict","colorway":["#636efa","#EF553B","#00cc96","#ab63fa","#FFA15A","#19d3f3","#FF6692","#B6E880","#FF97FF","#FECB52"],"font":{"color":"#2a3f5f"},"hovermode":"closest","hoverlabel":{"align":"left"},"paper_bgcolor":"white","plot_bgcolor":"#E5ECF6","polar":{"bgcolor":"#E5ECF6","angularaxis":{"gridcolor":"white","linecolor":"white","ticks":""},"radialaxis":{"gridcolor":"white","linecolor":"white","ticks":""}},"ternary":{"bgcolor":"#E5ECF6","aaxis":{"gridcolor":"white","linecolor":"white","ticks":""},"baxis":{"gridcolor":"white","linecolor":"white","ticks":""},"caxis":{"gridcolor":"white","linecolor":"white","ticks":""}},"coloraxis":{"colorbar":{"outlinewidth":0,"ticks":""}},"colorscale":{"sequential":[[0.0,"#0d0887"],[0.1111111111111111,"#46039f"],[0.2222222222222222,"#7201a8"],[0.3333333333333333,"#9c179e"],[0.4444444444444444,"#bd3786"],[0.5555555555555556,"#d8576b"],[0.6666666666666666,"#ed7953"],[0.7777777777777778,"#fb9f3a"],[0.8888888888888888,"#fdca26"],[1.0,"#f0f921"]],"sequentialminus":[[0.0,"#0d0887"],[0.1111111111111111,"#46039f"],[0.2222222222222222,"#7201a8"],[0.3333333333333333,"#9c179e"],[0.4444444444444444,"#bd3786"],[0.5555555555555556,"#d8576b"],[0.6666666666666666,"#ed7953"],[0.7777777777777778,"#fb9f3a"],[0.8888888888888888,"#fdca26"],[1.0,"#f0f921"]],"diverging":[[0,"#8e0152"],[0.1,"#c51b7d"],[0.2,"#de77ae"],[0.3,"#f1b6da"],[0.4,"#fde0ef"],[0.5,"#f7f7f7"],[0.6,"#e6f5d0"],[0.7,"#b8e186"],[0.8,"#7fbc41"],[0.9,"#4d9221"],[1,"#276419"]]},"xaxis":{"gridcolor":"white","linecolor":"white","ticks":"","title":{"standoff":15},"zerolinecolor":"white","automargin":true,"zerolinewidth":2},"yaxis":{"gridcolor":"white","linecolor":"white","ticks":"","title":{"standoff":15},"zerolinecolor":"white","automargin":true,"zerolinewidth":2},"scene":{"xaxis":{"backgroundcolor":"#E5ECF6","gridcolor":"white","linecolor":"white","showbackground":true,"ticks":"","zerolinecolor":"white","gridwidth":2},"yaxis":{"backgroundcolor":"#E5ECF6","gridcolor":"white","linecolor":"white","showbackground":true,"ticks":"","zerolinecolor":"white","gridwidth":2},"zaxis":{"backgroundcolor":"#E5ECF6","gridcolor":"white","linecolor":"white","showbackground":true,"ticks":"","zerolinecolor":"white","gridwidth":2}},"shapedefaults":{"line":{"color":"#2a3f5f"}},"annotationdefaults":{"arrowcolor":"#2a3f5f","arrowhead":0,"arrowwidth":1},"geo":{"bgcolor":"white","landcolor":"#E5ECF6","subunitcolor":"white","showland":true,"showlakes":true,"lakecolor":"white"},"title":{"x":0.05},"mapbox":{"style":"light"}}},"scene":{"xaxis":{"title":{"text":"Tech Maturity (5 = most mature)"},"range":[1,5],"dtick":1},"yaxis":{"title":{"text":"Time to Market (5 = soonest)"},"range":[1,5],"dtick":1},"zaxis":{"title":{"text":"Low-Cost Potential (5 = lowest cost)"},"range":[1,5],"dtick":1},"camera":{"eye":{"x":1.6,"y":1.6,"z":1.0}}},"legend":{"x":0.85,"y":0.95},"margin":{"l":0,"r":0,"t":60,"b":80},"title":{"text":"Fusion Concepts \u2014 3D Clustering"},"annotations":[{"font":{"color":"#555","size":12},"showarrow":false,"text":"All axes on 1-5 scale (5 = best, 1 = worst). Drag to rotate. Gray drop-lines & floor shadows show the (Tech Maturity, Time to Market) projection.","x":0.5,"xanchor":"center","xref":"paper","y":-0.06,"yanchor":"top","yref":"paper"}],"height":750},                        {"responsive": true}                    )                };            </script>        </div>
 </body>
 </html>

diff --git a/exploration/phase_1a/generate_ontology_chart.py b/exploration/phase_1a/generate_ontology_chart.py
@@ -195,53 +195,107 @@ REPRATE_MAP = {
 FUEL_MAP = {'D-T': 'D-T', 'D-D': 'D-D', 'D-He3': 'D-He3', 'p-B11': 'p-B11'}
 
 # ---------------------------------------------------------------------------
-# Tree path (Family > Topology > Sub-type) by concept ID
+# Tree path (Family > Topology > Sub-type) derived from architecture columns
 # ---------------------------------------------------------------------------
+#
+# Mirrors exploration/concept_analysis/scripts/lib/scoring.py:detect_c2_category
+# and exploration/concept_explorer/seed_registry.py:tree_group — keep column
+# reads and slug overrides in sync. Replaces the previous ID-prefix-keyed
+# TREE_PATH dict so the chart survives concept-ID renumbering.
 
-TREE_PATH = {
-    '01': ('MFE', 'Tokamak', 'Compact'),
-    '07': ('MIF', 'Pulsed power', 'MagLIF'),
-    '08': ('MIF', 'FRC', 'Pulsed compr.'),
-    '14': ('MIF', 'Mag. target', 'Pneumatic'),
-    '22': ('MFE', 'Tokamak', 'Spherical'),
-    '29': ('MFE', 'Tokamak', 'Compact'),
-    '30': ('MFE', 'Tokamak', 'Neg-tri'),
-    '34': ('MFE', 'Tokamak', 'Standard'),
-    '09': ('MFE', 'Stellarator', 'QI'),
-    '10': ('MFE', 'Stellarator', 'QI'),
-    '20': ('MFE', 'Stellarator', 'Modular'),
-    '21': ('MFE', 'Stellarator', 'Modular'),
-    '05': ('MFE', 'Stellarator', 'Planar'),
-    '36': ('MFE', 'Stellarator', 'Helical'),
-    '11': ('MFE', 'Open/Linear', 'Mirror'),
-    '06': ('MFE', 'Open/Linear', 'Mirror'),
-    '15': ('MFE', 'Open/Linear', 'Z-pinch'),
-    '18': ('MFE', 'Cmpt-Tor', 'FRC sust.'),
-    '12': ('MFE', 'Dipole', 'Levitated'),
-    '19': ('MFE', 'Dipole', 'Orbital'),
-    '35': ('MFE', 'Dipole', 'Supported'),
-    '39': ('MFE', 'Tokamak', 'Spherical'),
-    # IFE
-    '32': ('IFE', 'Laser', 'Direct'),
-    '33': ('IFE', 'Laser', 'Direct'),
-    '31': ('IFE', 'Laser', 'Indirect'),
-    '27': ('IFE', 'Laser', 'Hybrid'),
-    '17': ('IFE', 'Laser', 'Fast-ig.'),
-    '04': ('IFE', 'Laser', 'Ultrashort'),
-    '24': ('IFE', 'Laser', 'Ultrashort'),
-    '03': ('IFE', 'Laser', 'Ultrashort'),
-    '02': ('IFE', 'Other', 'Acoustic'),
-    '23': ('IFE', 'Projectile', '—'),
-    '26': ('IFE', 'Heavy ion', '—'),
-    # NearStar - new concept 37
-    '37': ('MIF', 'Mag. target', 'Mechanical'),
-    # Non-Standard (Other family)
-    '25': ('Other', 'DPF', '—'),
-    '16': ('Other', 'Muon', '—'),
-    '38': ('Other', 'Accelerator', '—'),
-    '28': ('Estatic', 'Polywell', '—'),
-    '13': ('Estatic', 'IEC', '—'),
+_LASER_SUBTYPE = {
+    'Direct drive': 'Direct',
+    'Indirect drive': 'Indirect',
+    'Hybrid drive': 'Hybrid',
+    'Hybrid direct drive': 'Hybrid',
+    'Fast ignition': 'Fast-ig.',
+    'Direct drive fast ignition': 'Fast-ig.',
+    'Ultrashort pulse': 'Ultrashort',
+    'Liquid jet': 'Ultrashort',
 }
+
+# Slug overrides for non-architecture distinctions (e.g. dipole sub-style,
+# MIF compression method, electrostatic device family).
+_TREE_SLUG_OVERRIDES: dict[str, tuple[str, str, str]] = {
+    '15-sheared-flow-stabilized-z-pinch': ('MFE', 'Open/Linear', 'Z-pinch'),
+    '12-levitated-dipole': ('MFE', 'Dipole', 'Levitated'),
+    '19-orbital-levitated-dipole': ('MFE', 'Dipole', 'Orbital'),
+    '35-polomac-magnetic-confinement': ('MFE', 'Dipole', 'Supported'),
+    '07-maglif': ('MIF', 'Pulsed power', 'MagLIF'),
+    '14-magnetized-target-fusion-pneumatic-compression': ('MIF', 'Mag. target', 'Pneumatic'),
+    '37-magnetized-target-inertial-fusion-mtif': ('MIF', 'Mag. target', 'Mechanical'),
+    '08-frc-w-direct-conversion': ('MIF', 'FRC', 'Pulsed compr.'),
+    '13-electrostatic-hybrid': ('Estatic', 'IEC', '—'),
+    '27-polywell': ('Estatic', 'Polywell', '—'),
+    '38-particle-accelerator-driven-fusion': ('Estatic', 'Accelerator', '—'),
+    '24-dense-plasma-focus': ('Other', 'DPF', '—'),
+    '16-muon-catalyzed-fusion': ('Other', 'Muon', '—'),
+}
+
+
+def derive_tree_path(r: dict) -> tuple[str, str, str]:
+    """Return (family/group, topology, subtype) for a CSV row.
+
+    Mirrors lib/scoring.py:detect_c2_category pattern. Reads architecture
+    columns from table.csv and falls back to _TREE_SLUG_OVERRIDES for
+    distinctions that columns alone don't capture.
+    """
+    full_id = r.get('ID', '').strip()
+    if full_id in _TREE_SLUG_OVERRIDES:
+        return _TREE_SLUG_OVERRIDES[full_id]
+
+    family = r.get('Confinement Family', '').strip()
+    topology = r.get('MFE Topology', '').strip()
+    tokamak_shape = r.get('Tokamak Shape', '').strip()
+    stellarator_type = r.get('Stellarator Type', '').strip()
+    driver = r.get('IFE Driver', '').strip()
+    laser_approach = r.get('Laser Approach', '').strip()
+    mif_method = r.get('MIF Method', '').strip()
+    mechanism = r.get('Non-Standard Mechanism', '').strip()
+
+    if family == 'MFE':
+        if topology == 'Tokamak':
+            shape_map = {
+                'Compact': 'Compact', 'Spherical': 'Spherical',
+                'Standard': 'Standard', 'Negative triangularity': 'Neg-tri',
+            }
+            return ('MFE', 'Tokamak', shape_map.get(tokamak_shape, '—'))
+        if topology == 'Stellarator':
+            st_map = {
+                'QI': 'QI', 'Modular': 'Modular',
+                'Planar coil': 'Planar', 'Helical coil': 'Helical',
+            }
+            return ('MFE', 'Stellarator', st_map.get(stellarator_type, '—'))
+        if topology == 'Open/Linear':
+            return ('MFE', 'Open/Linear', 'Mirror')
+        if topology == 'Compact Toroid':
+            return ('Cmpt-Tor', 'FRC sust.', '—')
+        if topology == 'Dipole':
+            return ('MFE', 'Dipole', '—')
+        return ('MFE', topology or '—', '—')
+
+    if family == 'IFE':
+        if driver == 'Laser':
+            return ('IFE', 'Laser', _LASER_SUBTYPE.get(laser_approach, '—'))
+        if driver == 'Acoustic':
+            return ('IFE', 'Other', 'Acoustic')
+        if driver == 'Projectile':
+            return ('IFE', 'Projectile', '—')
+        if driver == 'Heavy ion beam':
+            return ('IFE', 'Heavy ion', '—')
+        return ('IFE', driver or '—', '—')
+
+    if family == 'MIF':
+        if mif_method == 'Magnetized target':
+            return ('MIF', 'Mag. target', '—')
+        if mif_method == 'FRC compression':
+            return ('MIF', 'FRC', 'Pulsed compr.')
+        return ('MIF', mif_method or '—', '—')
+
+    # Non-Standard family
+    if mechanism == 'Electrostatic':
+        return ('Estatic', '—', '—')
+    return ('Other', mechanism or '—', '—')
 
 # ---------------------------------------------------------------------------
 # Short code per concept (for the concept name column)
@@ -359,9 +413,9 @@ def derive_row(r: dict) -> dict:
         'co': co,
         'code': CODE_BY_CO.get(co, co[:3].upper()),
         'name': SHORT_NAME.get(co, co),
-        'family': TREE_PATH.get(cid, ('—', '—', '—'))[0],
-        'topology': TREE_PATH.get(cid, ('—', '—', '—'))[1],
-        'subtype': TREE_PATH.get(cid, ('—', '—', '—'))[2],
+        'family': derive_tree_path(r)[0],
+        'topology': derive_tree_path(r)[1],
+        'subtype': derive_tree_path(r)[2],
         'Fuel': FUEL_MAP.get(r.get('Fuel', '').strip(), r.get('Fuel', '').strip() or '—'),
         'Heat': heat,
         'Driver': driver,
@@ -459,9 +513,10 @@ PALETTES = {
     },
 }
 
-# Family tree band colors
+# Family tree band colors (display groups mirror seed_registry.tree_group)
 FAMILY_COLORS = {
     'MFE': '#3b50a0', 'IFE': '#a8453a', 'MIF': '#8e6cc5',
+    'Cmpt-Tor': '#3a8fa8',
     'Estatic': '#dba23a', 'Other': '#5fb86c',
 }
 TOPOLOGY_COLORS = {f: '#aab8dc' for f in TOPOLOGY_ORDER}  # uniform light blue tint
@@ -470,7 +525,13 @@ SUBTYPE_COLORS = {s: '#d6dcec' for s in SUBTYPE_ORDER}
 # Text color: dark on light bands, white on dark
 def text_color(bg: str) -> str:
     if bg.startswith('#'):
-        r, g, b = int(bg[1:3], 16), int(bg[3:5], 16), int(bg[5:7], 16)
+        hex_part = bg[1:]
+        # Expand shorthand #abc -> #aabbcc
+        if len(hex_part) == 3:
+            hex_part = ''.join(ch * 2 for ch in hex_part)
+        if len(hex_part) < 6:
+            return '#222'
+        r, g, b = int(hex_part[0:2], 16), int(hex_part[2:4], 16), int(hex_part[4:6], 16)
         lum = 0.299 * r + 0.587 * g + 0.114 * b
         return 'white' if lum < 140 else '#222'
     return '#222'

diff --git a/exploration/concept_analysis/scripts/oneoff_3d_clustering.py b/exploration/concept_analysis/scripts/oneoff_3d_clustering.py
@@ -76,47 +76,87 @@ FUNDING_M_USD: dict[str, float] = {
     "31-laser-icf-oec-architecture": 25,   # Blue Laser Fusion
     "32-laser-icf-french-national": 10,    # GenF
     "33-state-backed-tokamak-best": 100,   # BEST (China state-backed)
-    "34-compact-spherical-tokamak-india": 20,  # Pranos / India
+    "34-compact-spherical-tokamak-india": 20,  # Pranos / India (no longer in v3 table)
     "35-polomac-magnetic-confinement": 1,  # Polomac — tiny/research
     "36-helical-coil-stellarator": 10,     # Helical Fusion (Japan)
+    "37-magnetized-target-inertial-fusion-mtif": 5,  # NearStar — early stage
+    "38-particle-accelerator-driven-fusion": 5,  # SHINE Technologies-adjacent
+    "39-spherical-tokamak-cs-free-p-b11": 5,  # ENN p-B11 program (small public estimate)
 }
 
 
 # ---------------------------------------------------------------------------
-# Cadence factor by confinement family / topology
+# Cadence factor by architecture columns
 # ---------------------------------------------------------------------------
-CADENCE_BY_PREFIX: dict[str, float] = {
-    # Compact pulsed — fast iteration
-    "07": 0.70,   # MagLIF
-    "14": 0.70,   # MTF pneumatic
-    "15": 0.70,   # FuZE Z-pinch
-    "22": 0.70,   # Projectile ICF
-    "08": 0.75,   # Helion FRC (pulsed)
-    "18": 0.75,   # TAE FRC
-    "24": 0.70,   # Dense plasma focus
-    # Laser IFE
-    "03": 0.85, "04": 0.85, "17a": 0.85, "17b": 0.85,
-    "23": 0.85, "26": 0.85, "30": 0.85, "31": 0.85, "32": 0.85,
-    "25": 0.90,   # Heavy-ion beam IFE — slower
-    # Mirror / levitated dipole / orbital
-    "06": 1.00, "11": 1.00, "12": 1.00, "19": 1.30,  # orbital is much slower
-    # Spherical / compact tokamaks
-    "01": 1.10,   # CFS / SPARC
-    "21": 1.10,   # Tokamak Energy
-    "28": 1.10,   # Energy Singularity
-    "29": 1.10,   # Firefly
-    "34": 1.10,   # Pranos
-    # Conventional tokamaks
-    "33": 1.20,   # BEST
-    # Stellarators
-    "05": 1.30, "09": 1.30, "10": 1.30, "20a": 1.30, "20b": 1.30, "36": 1.30,
-    # Exotic / novel
-    "02": 1.50,   # Sonofusion
-    "13": 1.40,   # Avalanche electrostatic
-    "16": 1.50,   # Muon-catalyzed
-    "27": 1.40,   # Polywell
-    "35": 1.50,   # Polomac
+#
+# Mirrors lib/scoring.py:detect_c2_category — keep column reads and slug
+# overrides in sync. Derives the cadence multiplier from Confinement Family /
+# MFE Topology / IFE Driver / MIF Method / Non-Standard Mechanism so the
+# lookup survives concept-ID renumbering.
+
+# Slug overrides for cases where architecture columns alone are insufficient:
+_CADENCE_SLUG_OVERRIDES: dict[str, float] = {
+    # Orbital levitated dipole — much slower iteration than a ground LD
+    "19-orbital-levitated-dipole": 1.30,
+    # Z-pinch shares Open/Linear topology but iterates like compact pulsed MFE
+    "15-sheared-flow-stabilized-z-pinch": 0.70,
 }
+
+
+def cadence_by_architecture(concept_id: str, info: dict[str, str]) -> float:
+    """Return the cadence multiplier for a concept from its architecture row.
+
+    Mirrors lib/scoring.py:detect_c2_category pattern; see module-level note.
+    """
+    if concept_id in _CADENCE_SLUG_OVERRIDES:
+        return _CADENCE_SLUG_OVERRIDES[concept_id]
+
+    family = info.get("Confinement Family", "").strip()
+    topology = info.get("MFE Topology", "").strip()
+    mif_method = info.get("MIF Method", "").strip()
+    driver = info.get("IFE Driver", "").strip()
+    mechanism = info.get("Non-Standard Mechanism", "").strip()
+    tokamak_shape = info.get("Tokamak Shape", "").strip()
+
+    if family == "MFE":
+        if topology == "Tokamak":
+            # Compact / spherical / negative-triangularity iterate faster than
+            # standard conventional tokamaks.
+            if tokamak_shape in ("Compact", "Spherical", "Negative triangularity"):
+                return 1.10
+            return 1.20
+        if topology == "Stellarator":
+            return 1.30
+        if topology == "Compact Toroid":
+            return 0.75
+        if topology == "Open/Linear":
+            return 1.00  # mirrors; Z-pinch handled via slug override above
+        if topology == "Dipole":
+            return 1.00  # ground levitated dipole
+        return 1.50  # exotic MFE — slow
+
+    if family == "IFE":
+        if driver == "Laser":
+            return 0.85
+        if driver in ("Heavy ion beam", "Projectile"):
+            return 0.90 if driver == "Heavy ion beam" else 0.70
+        if driver == "Acoustic":
+            return 1.50  # sonofusion — exotic
+        return 1.40
+
+    if family == "MIF":
+        if mif_method == "FRC compression":
+            return 0.75
+        return 0.70  # magnetized-target / pulsed-power MIF
+
+    # Non-Standard family
+    if mechanism == "Electrostatic":
+        return 1.40
+    if mechanism == "Muon-catalyzed":
+        return 1.50
+    if mechanism == "Plasma focus":
+        return 0.70
+    return 1.50  # default exotic
 
 
 # ---------------------------------------------------------------------------
@@ -210,9 +250,8 @@ def build_dataset() -> list[dict]:
         # Low-cost potential = geo mean of C1, C3, C4, C5, C6
         lcp = geo_mean([s["C1"], s["C3"], s["C4"], s["C5"], s["C6"]])
 
-        # TTM components
-        prefix = cid.split("-")[0]
-        cadence = CADENCE_BY_PREFIX.get(prefix, 1.20)  # default for missing
+        # TTM components — cadence derived from architecture columns
+        cadence = cadence_by_architecture(cid, info)
         ff = fuel_factor_for(cid, fuel)
         funding = FUNDING_M_USD.get(cid, 1.0)
         funding_boost = funding_factor(funding)
